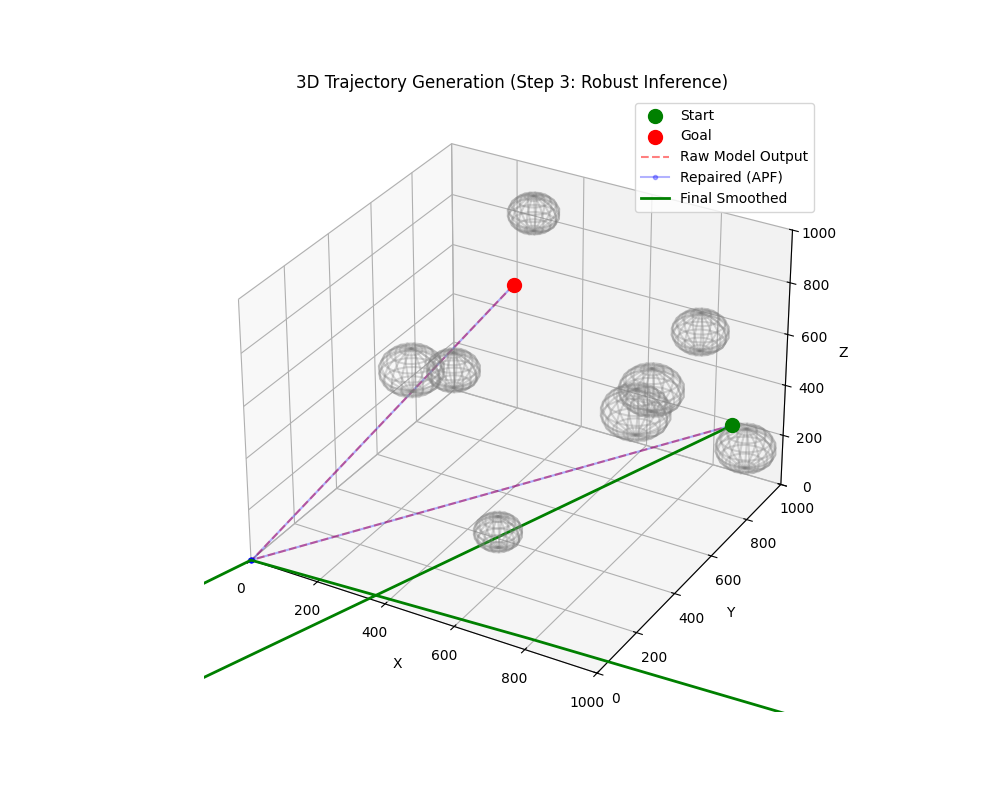
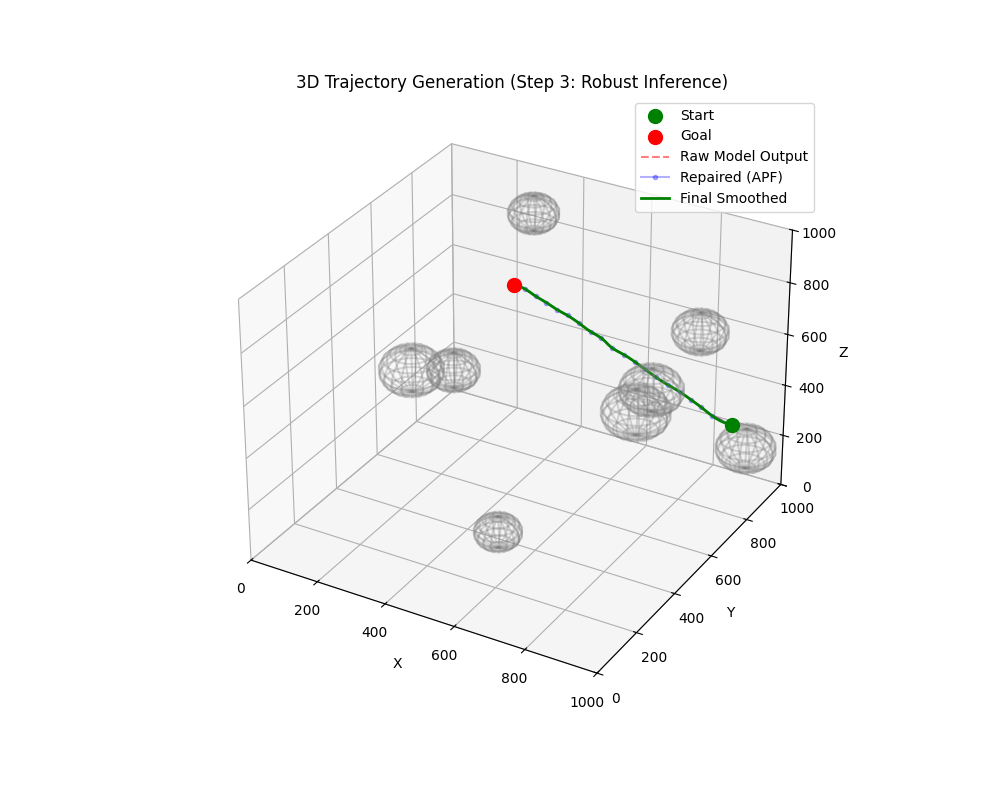
Cleanup: Removed temp visual scripts and finalized README

diff --git a/README.md b/README.md
@@ -14,7 +14,7 @@ A Hybrid Logic-Learning Architecture for generating safe, smooth, and kinodynami
 ## 📸 Visualization
 
 ![3D Trajectory Demo](results/demo_step3.png)
-*(Red: Raw Neural Net Output | Green: Safe Repaired Trajectory)*
+*(Figure 1: Hybrid Model Inference. The path (Green) successfully avoids obstacles where the raw model output (Red) might be unsafe.)*
 
 ---
 
